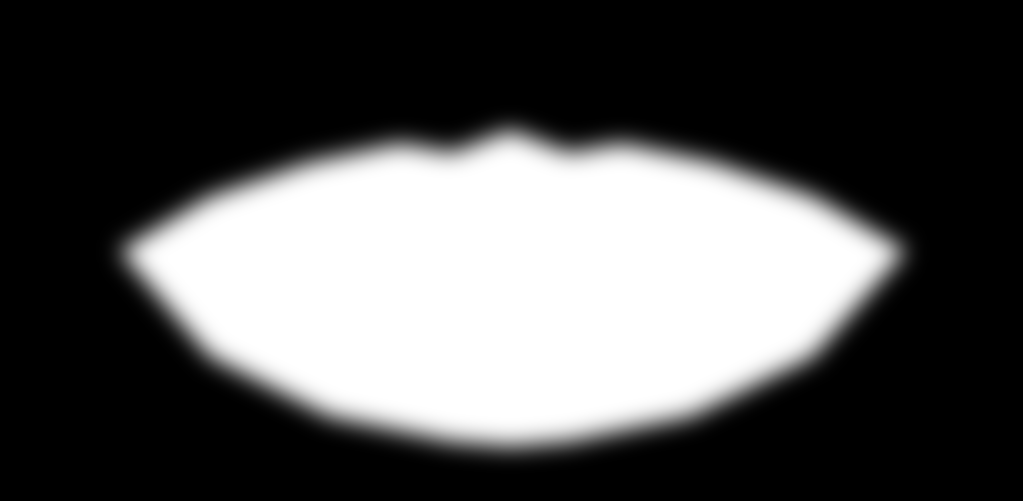
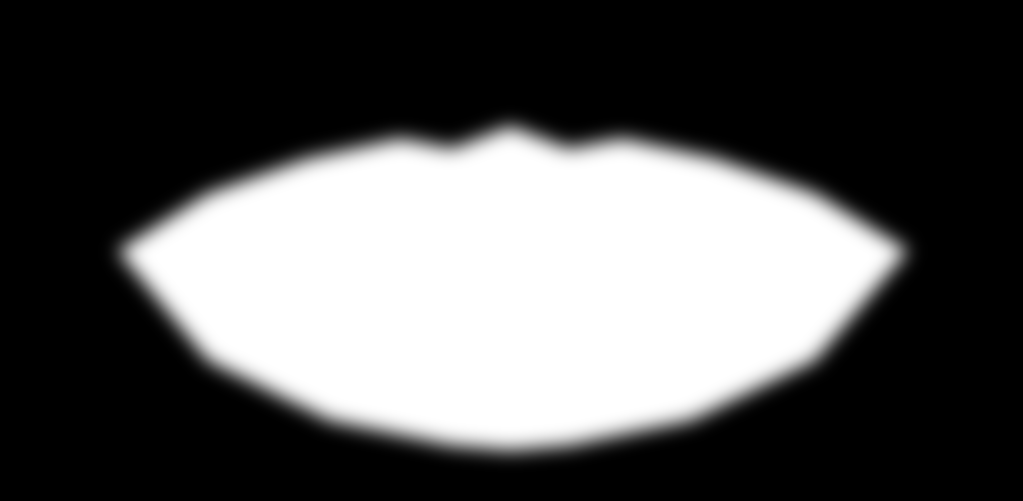
Configurator: full lip recolor (solid color + texture layer) instead of muddy multiply tint

Changed region(s): [[0.1515, 0.2395, 0.8788, 0.9281], [0.1212, 0.479, 0.1515, 0.5689]]

diff --git a/index.html b/index.html
@@ -326,15 +326,17 @@
   .lipconf__stage{position:relative;border-radius:18px;overflow:hidden;
     box-shadow:0 22px 56px rgba(21,17,14,.16)}
   .lipconf__base{width:100%;display:block}
-  .lipconf__tint{position:absolute;inset:0;mix-blend-mode:multiply;
+  .lipconf__tint{position:absolute;inset:0;
     -webkit-mask:url(assets/img/config-mask.png) center/100% 100% no-repeat;
     mask:url(assets/img/config-mask.png) center/100% 100% no-repeat;
-    background:var(--lc-color,#cf7d72);opacity:var(--lc-int,.46);
+    background:var(--lc-color,#cf7d72);opacity:var(--lc-int,.7);
     transition:background .35s ease,opacity .2s ease}
+  .lipconf__tex{position:absolute;inset:0;mix-blend-mode:multiply;pointer-events:none;
+    background:url(assets/img/config-tex.png) center/100% 100% no-repeat}
   .lipconf__gloss{position:absolute;inset:0;pointer-events:none;mix-blend-mode:screen;
     -webkit-mask:url(assets/img/config-mask.png) center/100% 100% no-repeat;
     mask:url(assets/img/config-mask.png) center/100% 100% no-repeat;
-    background:radial-gradient(ellipse 40% 24% at 42% 60%,rgba(255,255,255,.6),transparent 70%);
+    background:radial-gradient(ellipse 34% 16% at 50% 66%,rgba(255,255,255,.55),transparent 70%);
     opacity:var(--lc-gloss,0);transition:opacity .3s ease}
   .lipconf__ctrl h3{font-size:clamp(1.5rem,3vw,2rem);margin-bottom:10px}
   .lipconf__ctrl>p{color:var(--gris);margin-bottom:22px}
@@ -764,6 +766,7 @@
       <div class="lipconf__stage">
         <img class="lipconf__base" src="assets/img/config-base.jpg" alt="Aperçu du rendu des lèvres" />
         <div class="lipconf__tint" id="lcTint"></div>
+        <div class="lipconf__tex"></div>
         <div class="lipconf__gloss" id="lcGloss"></div>
       </div>
       <div class="lipconf__ctrl">
@@ -1031,8 +1034,8 @@
   function apply(){
     var v=+range.value;
     tint.style.setProperty('--lc-color',color);
-    tint.style.setProperty('--lc-int',(0.16+v/100*0.72).toFixed(3));
-    gloss.style.setProperty('--lc-gloss',(v/100*0.9).toFixed(2));
+    tint.style.setProperty('--lc-int',(0.45+v/100*0.47).toFixed(3));
+    gloss.style.setProperty('--lc-gloss',(v/100*0.8).toFixed(2));
     readout.innerHTML='<b>'+name+'</b> · effet '+level(v);
   }
   sw.addEventListener('click',function(e){
